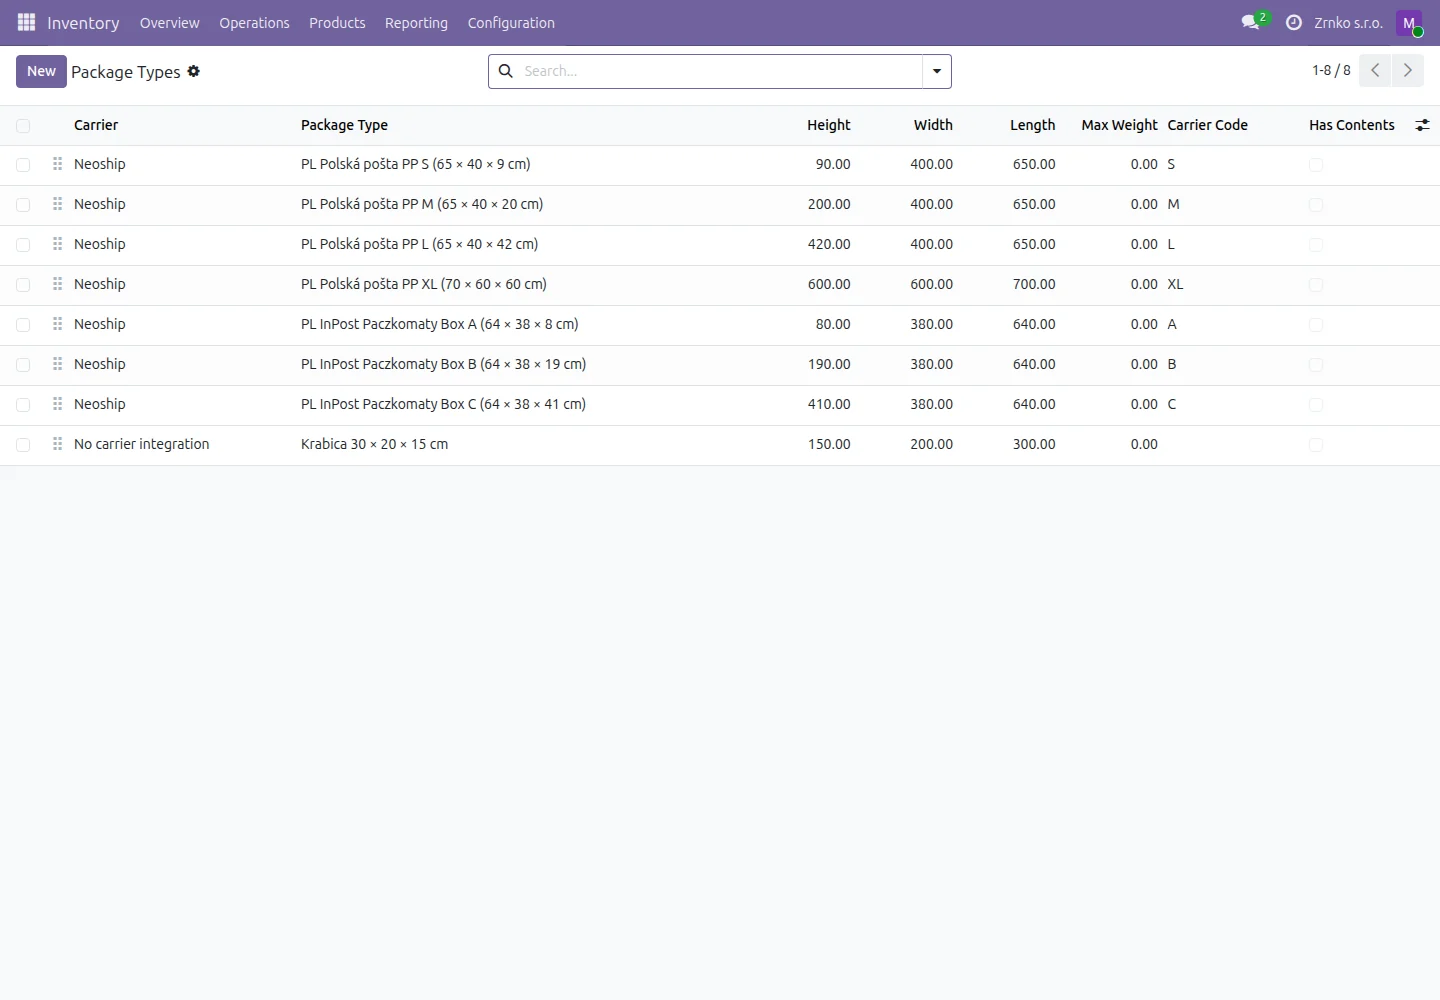
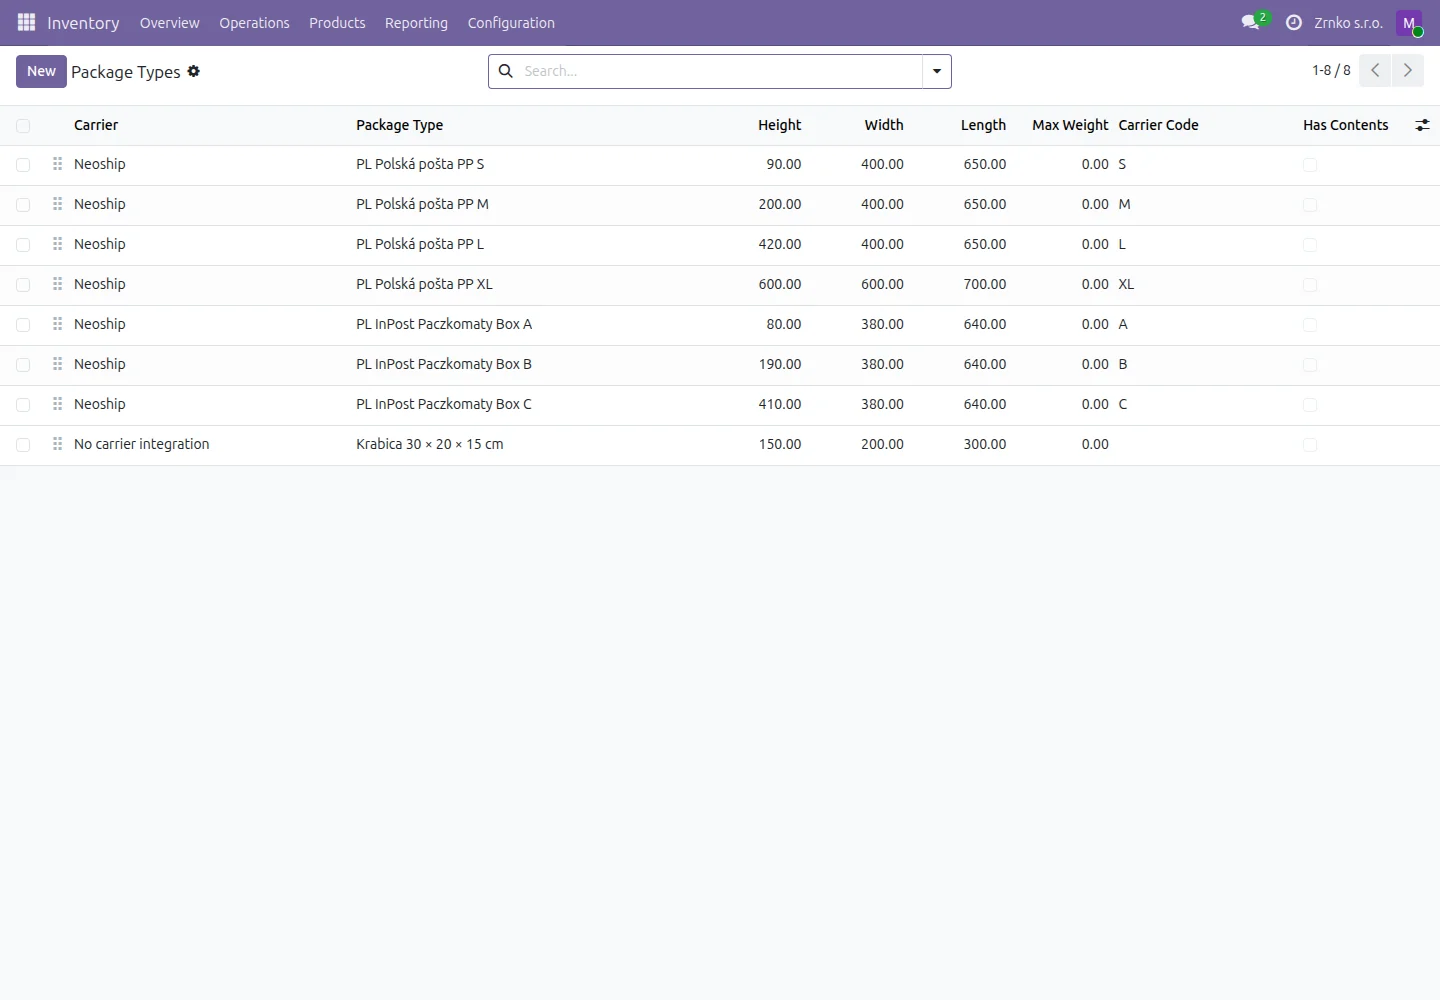
docs: Show Packeta size names without dimensions

diff --git a/docs/tutorial-assets/screenshot-guides.js b/docs/tutorial-assets/screenshot-guides.js
@@ -65,9 +65,9 @@
       mark([878, 822, 200, 30], [960, 885], "Default Package Type: the size for parcels without one; empty means the carrier's largest size.", "Default Package Type: veľkosť pre balíky bez typu; prázdne pole znamená najväčšiu veľkosť dopravcu."),
     ],
     "51-package-types.webp": [
-      mark([292, 302, 465, 128], [640, 560], "The loaded InPost Paczkomaty Box sizes.", "Načítané veľkosti InPost Paczkomaty Box."),
-      mark([1162, 302, 52, 128], [1240, 560], "Carrier Code is the size sent to Neoship.", "Carrier Code je veľkosť, ktorá ide do Neoshipu."),
-      mark([65, 426, 400, 40], [200, 560], "Your own box stays without a carrier integration.", "Vlastná škatuľa zostáva bez integrácie dopravcu."),
+      mark([347, 302, 200, 128], [447, 560], "The loaded InPost Paczkomaty Box sizes.", "Načítané veľkosti InPost Paczkomaty Box."),
+      mark([1113, 302, 52, 128], [1190, 560], "Carrier Code is the size sent to Neoship.", "Carrier Code je veľkosť, ktorá ide do Neoshipu."),
+      mark([65, 426, 450, 40], [200, 560], "Your own box stays without a carrier integration.", "Vlastná škatuľa zostáva bez integrácie dopravcu."),
     ],
     "15-packeta-country-picker.webp": [
       mark([243, 183, 954, 48], [1252, 207], "For a Czech address, check the CZ service, Czech Republic and CZK on this row.", "Pre českú adresu skontrolujte v tomto riadku službu CZ, Czech Republic a CZK."),
@@ -147,8 +147,8 @@
     ],
     "52-put-in-pack.webp": [
       mark([511, 454, 521, 34], [1110, 470], "Package Type offers only sizes that fit the delivery's Packeta carrier.", "Package Type ponúkne len veľkosti, ktoré sedia na dopravcu Packety z dodacieho listu."),
-      mark([514, 491, 489, 85], [1110, 532], "InPost Box A, B and C for the InPost locker.", "InPost Box A, B a C pre box InPost."),
-      mark([514, 572, 489, 31], [1110, 600], "Your own boxes without a carrier integration are offered too.", "Ponúknu sa aj vlastné škatule bez integrácie dopravcu."),
+      mark([514, 491, 380, 85], [1110, 532], "InPost Box A, B and C for the InPost locker.", "InPost Box A, B a C pre box InPost."),
+      mark([514, 572, 380, 31], [1110, 600], "Your own boxes without a carrier integration are offered too.", "Ponúknu sa aj vlastné škatule bez integrácie dopravcu."),
     ],
     "37-closure-notice.webp": [
       mark([1022, 52, 404, 82], [1042, 25], "Selecting SPS, Packeta or Slovenská pošta creates an archived closure schedule. Open it from this link or later from the menu.", "Výber SPS, Packety alebo Slovenskej pošty vytvorí archivovaný plán uzávierky. Otvoríte ho týmto odkazom alebo neskôr z menu."),

diff --git a/docs/tutorial-sk.html b/docs/tutorial-sk.html
@@ -256,7 +256,7 @@
     </ol>
   </section>
 
-  <footer>Screenshoty z testovacieho API Neoship · <code>delivery_neoship</code> 19.0.0.1.1, <code>delivery_neoship_mrp</code> 19.0.0.1.0 · 12. októbra 2026</footer>
+  <footer>Screenshoty z testovacieho API Neoship · <code>delivery_neoship</code> 19.0.0.3.0, <code>delivery_neoship_mrp</code> 19.0.0.1.1 · 27. októbra 2026</footer>
 </main>
 <dialog id="lightbox" aria-label="Zväčšený obrázok"><div class="lightbox-head"><p></p><button type="button">Zavrieť</button></div><img alt=""></dialog>
 </body>

diff --git a/docs/tutorial.html b/docs/tutorial.html
@@ -256,7 +256,7 @@
     </ol>
   </section>
 
-  <footer>Screenshots from the Neoship test API · <code>delivery_neoship</code> 19.0.0.1.1, <code>delivery_neoship_mrp</code> 19.0.0.1.0 · 12 October 2026</footer>
+  <footer>Screenshots from the Neoship test API · <code>delivery_neoship</code> 19.0.0.3.0, <code>delivery_neoship_mrp</code> 19.0.0.1.1 · 27 October 2026</footer>
 </main>
 <dialog id="lightbox" aria-label="Enlarged screenshot"><div class="lightbox-head"><p></p><button type="button">Close</button></div><img alt=""></dialog>
 </body>
